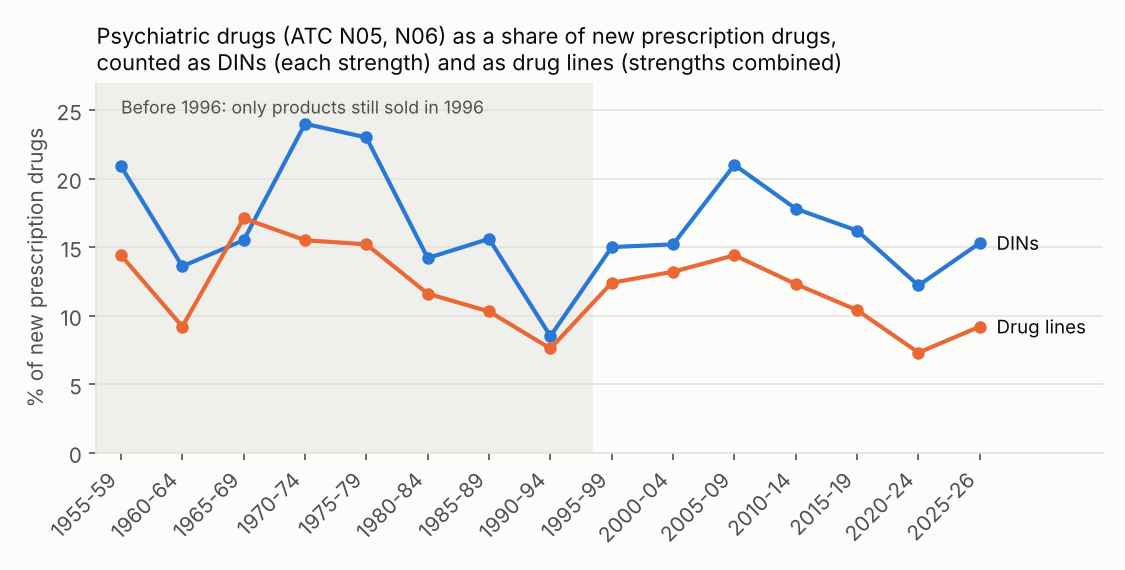
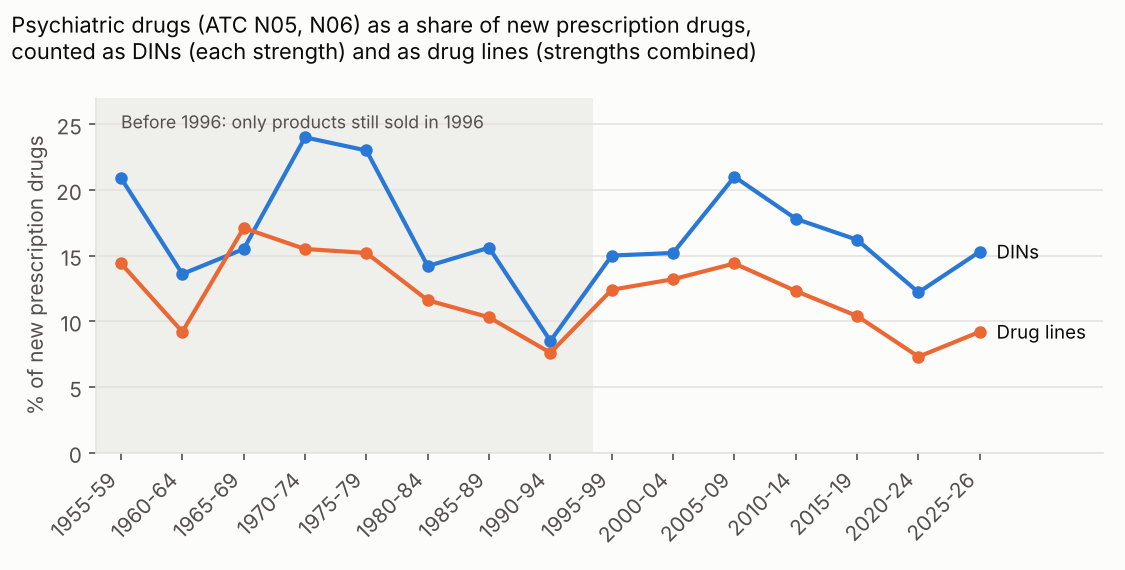
Fix cut-off chart titles by anchoring them to the figure edge
Claude-Session: https://claude.ai/code/session_011BWcwKVp6sSaKEJTETaasB

diff --git a/scripts/03_make_charts.py b/scripts/03_make_charts.py
@@ -52,20 +52,20 @@ for i, r in enumerate(rows):
             va="center", color=MUTED, fontsize=9)
 ax.set_xlim(0, max(int(r["rx_drug_lines"]) for r in rows) * 1.3)
 ax.set_xlabel("Prescription drug lines (one per company and drug), all years")
-ax.set_title("Companies with the most prescription drugs in the DPD", loc="left", fontsize=11)
+fig.suptitle("Companies with the most prescription drugs in the DPD", x=0.01, ha="left", fontsize=11)
 ax.grid(axis="x", color=GRID, linewidth=0.8)
 ax.set_axisbelow(True)
 save(fig, "top_companies_rx.png")
 
 # 2. Prescription products by ATC main group
 rows = sorted(read("04_therapeutic_areas"), key=lambda r: int(r["rx_products"]))
-fig, ax = plt.subplots(figsize=(7, 4.5))
+fig, ax = plt.subplots(figsize=(8, 4.8))
 labels = [r["therapeutic_area"].split(",")[0] for r in rows]
 ax.barh(labels, [int(r["rx_products"]) for r in rows], color=SERIES[0], height=0.6)
 for i, r in enumerate(rows):
     ax.text(int(r["rx_products"]) + 50, i, f'{float(r["pct_of_rx"]):.1f}%', va="center", color=MUTED, fontsize=9)
 ax.set_xlabel("Prescription products (DINs), all years")
-ax.set_title("Prescription products by therapeutic area (ATC main group)", loc="left", fontsize=11)
+fig.suptitle("Prescription products by therapeutic area (ATC main group)", x=0.01, ha="left", fontsize=11)
 ax.grid(axis="x", color=GRID, linewidth=0.8)
 ax.set_axisbelow(True)
 save(fig, "therapeutic_areas_rx.png")
@@ -88,7 +88,7 @@ ax.set_xlim(x[0] - 2, x[-1] + 10)
 ax.axvspan(x[0] - 2, 1993.5, color=GRID, alpha=0.5, linewidth=0)
 ax.text(x[0], 26, "Before 1996: only products still sold in 1996", color=MUTED, fontsize=8.5, va="top")
 
-ax.set_title("Psychiatric drugs (ATC N05, N06) as a share of new prescription drugs,\ncounted as DINs (each strength) and as drug lines (strengths combined)", loc="left", fontsize=10.5)
+fig.suptitle("Psychiatric drugs (ATC N05, N06) as a share of new prescription drugs,\ncounted as DINs (each strength) and as drug lines (strengths combined)", x=0.01, ha="left", fontsize=10.5)
 ax.grid(axis="y", color=GRID, linewidth=0.8)
 ax.set_axisbelow(True)
 save(fig, "psych_share_rx.png")
@@ -116,7 +116,7 @@ ax.set_xticklabels([f"{p}-{str(p + 4)[2:]}" if p < 2025 else "2025-26" for p in 
 ax.set_ylabel("% of new psychiatric drug lines")
 ax.set_ylim(0, 108)
 ax.set_yticks(range(0, 101, 20))
-ax.set_title("Mix of new psychiatric drug lines by class", loc="left", fontsize=11)
+fig.suptitle("Mix of new psychiatric drug lines by class", x=0.01, ha="left", fontsize=11)
 ax.legend(loc="upper left", bbox_to_anchor=(1.01, 1), frameon=False, fontsize=9)
 save(fig, "psych_class_mix.png")
 
